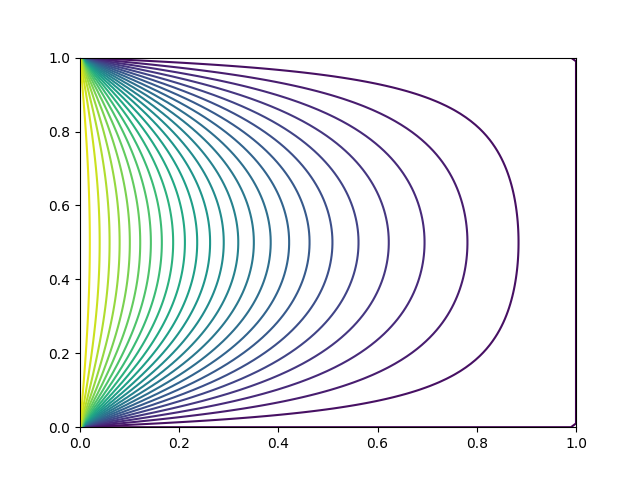
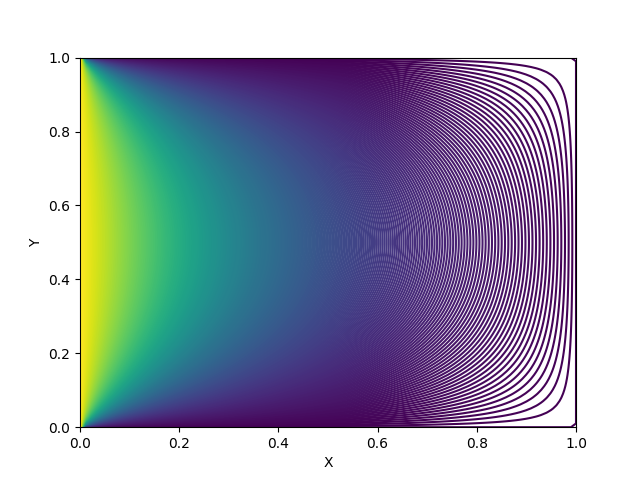
Add files via upload

diff --git a/Q3.py b/Q3.py
@@ -9,7 +9,9 @@ potential = ul.laplace(potential)
 
 edge= np.linspace(0, 1, 100)
 xv,yv= np.meshgrid(edge,edge)
-plt.contour(xv,yv,potential,30)
+plt.contour(xv,yv,potential,400)
+plt.xlabel("X")
+plt.ylabel("Y")
 plt.show()
 
 # solution
